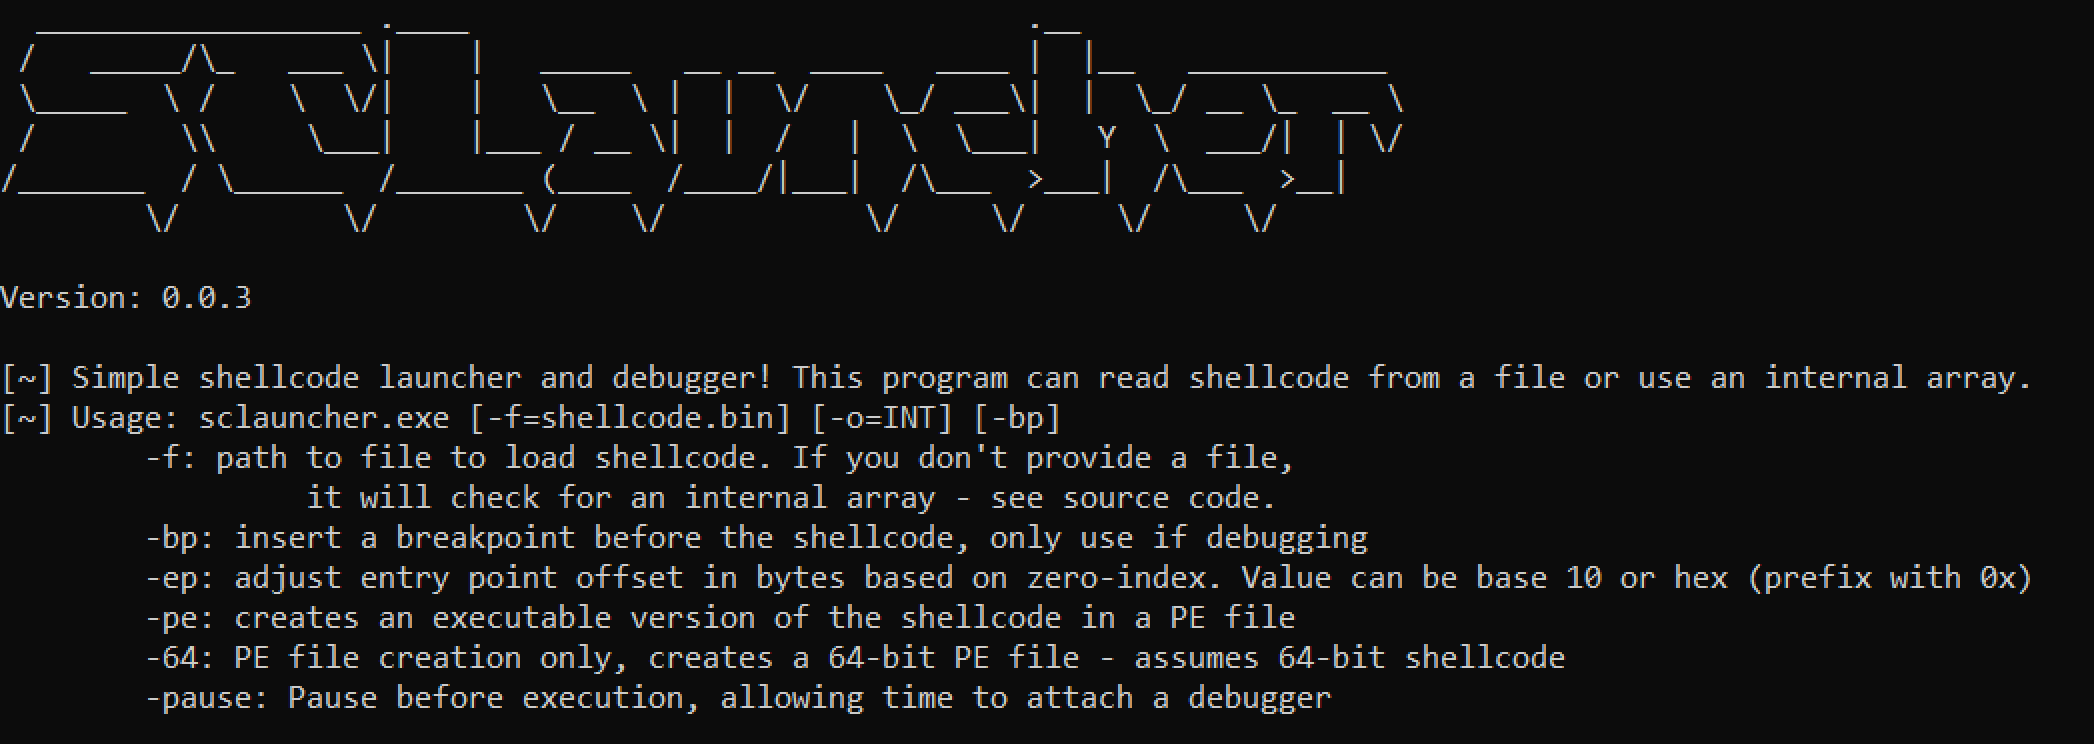
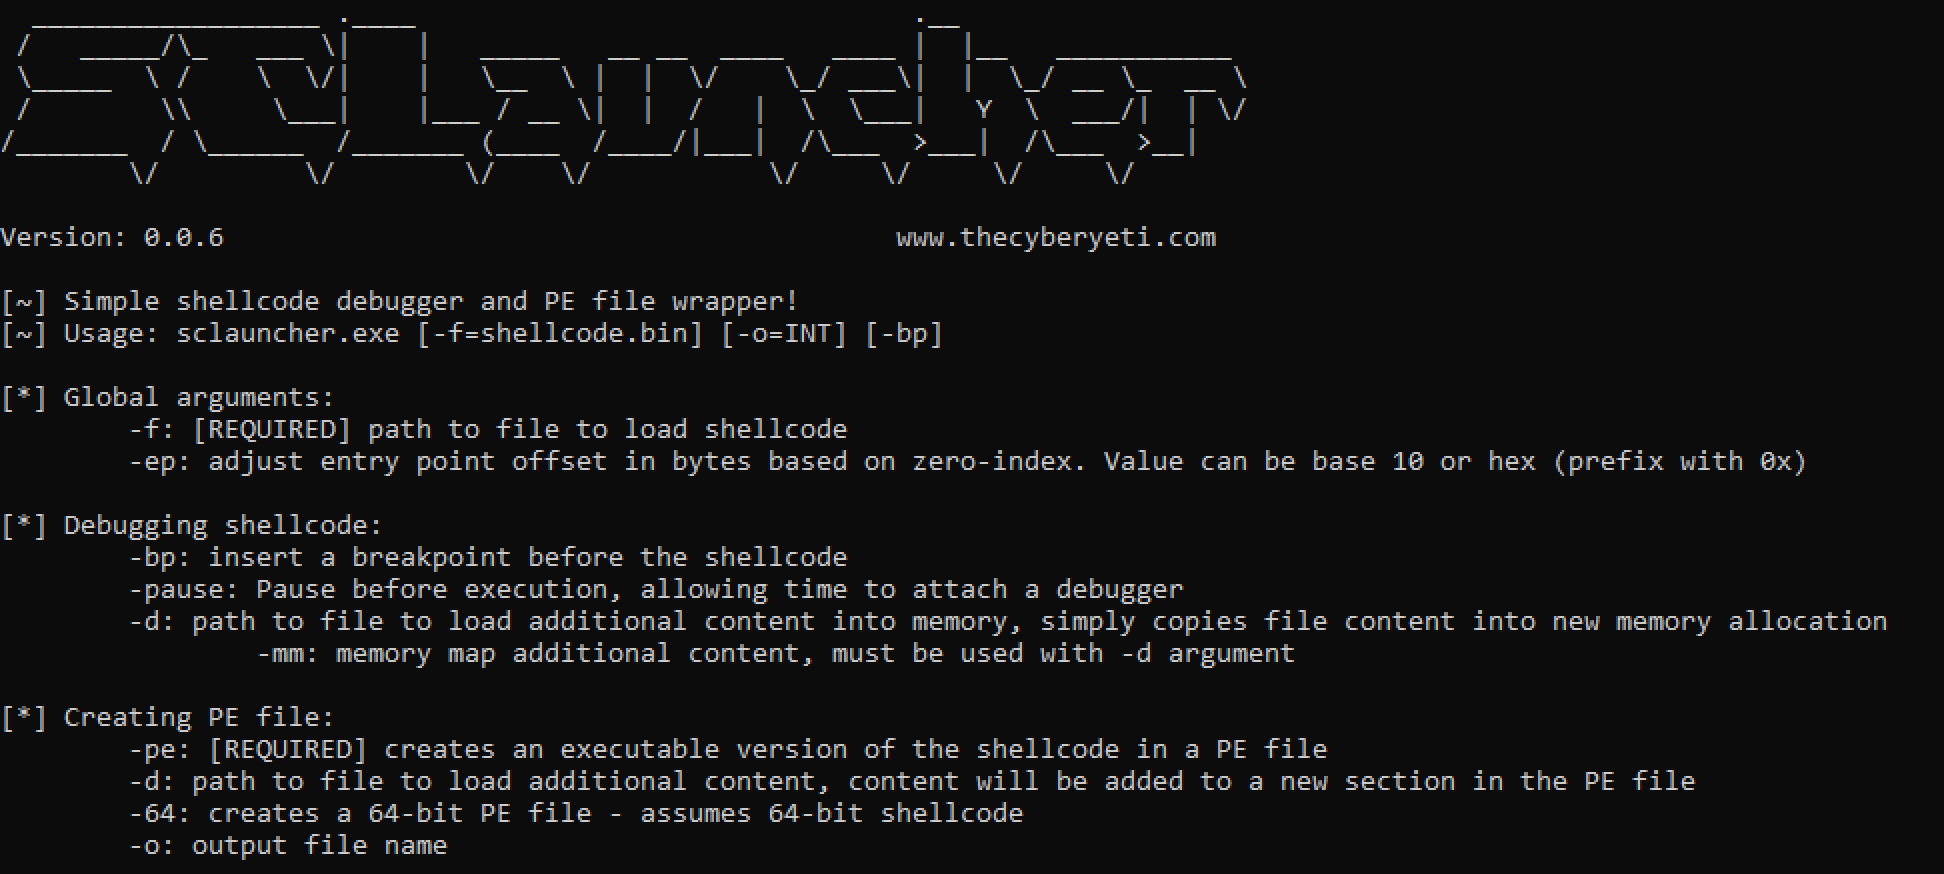
updates readme

diff --git a/README.md b/README.md
@@ -6,10 +6,23 @@ This program is designed to load 32-bit or 64-bit shellcode and allow for execut
 
 Release binaries are available. You can view a demo of this tool on [YouTube](https://youtu.be/U8SkM99TB2g)
 
-This program provides several options for working with your shellcode:
-* You can use the ```-pause``` argument to pause this program before executing the shellcode. This allows for a debugger to be attached and breakpoints to be set. Keep in mind that there are options available to have this utility set breakpoints for you, see the ```-bp``` argument.
-* You can produce PE files from your shellcode, then disassemble or debug them as you would a normal PE file.
-* You can run the the program directly under a debugger, providing the appropriate arguments through your debuggers interface.
+This program provides several options for working with your shellcode, organized by their usage.
+
+**Global arguments**
+- -f: required, path of the file to load shellcode from
+- -ep: adjusts the entry point offset. If debugging, this will become the offset that is executed. if using with PE file creation, this will become the *AddressOfEntry* value
+
+**Debugging shellcode**
+- -bp: SCLauncher will insert a breakpoint (0xCC) at the desired offset. *Note, this doesn't not appear to work with all debuggers.*
+- -pause: Pauses execution before executing the shellcode, allowing for a debugger to be attached or other monitoring tools to be started.
+- -d: path to a file to load additional content. For example, if the shellcode is dependent on other content being in memory.
+- -mm: Works with -d only, this will load the additional content pointed to by the *-d* argument as a memory mapped file.
+
+**Creating a PE File**
+- -pe: Tells SCLauncher to create a PE file
+- -d: If used in the context of PE file creation, will create a new section named *.content* with the content of this file.
+- -64: Creates a 64-bit executable, for use with 64-bit shellcode.
+- -o: Defines outpout file name for generated PE file. Default is *sc_outpout.exe*.
 
 ## Executing Shellcode From a File
 
